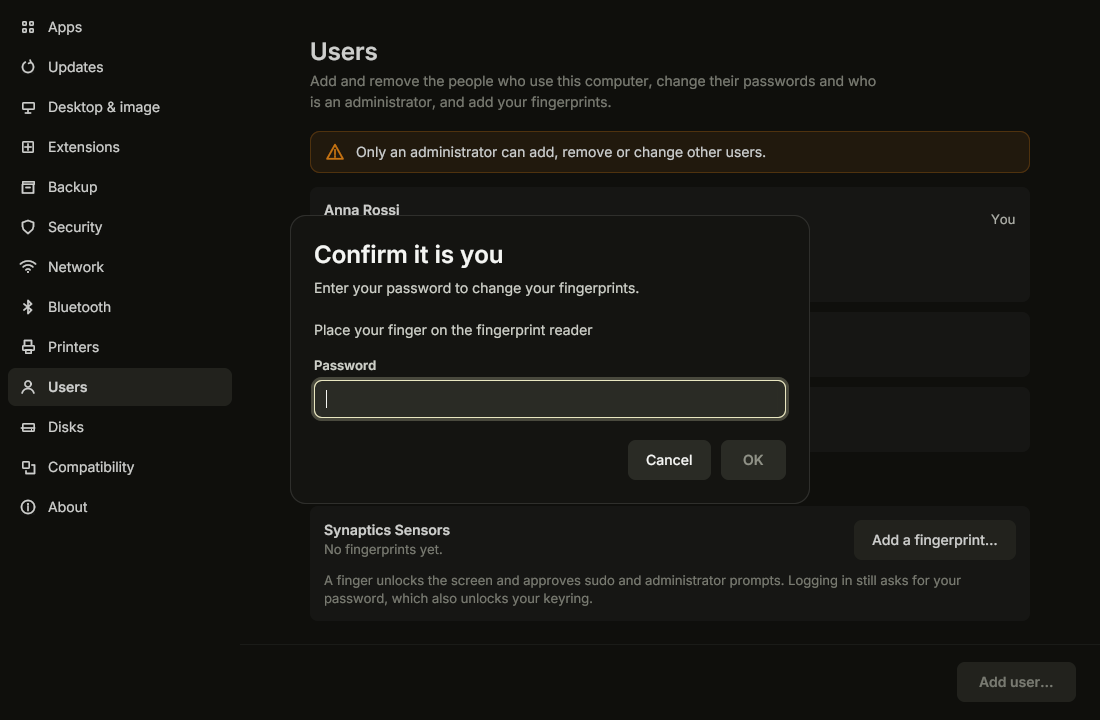
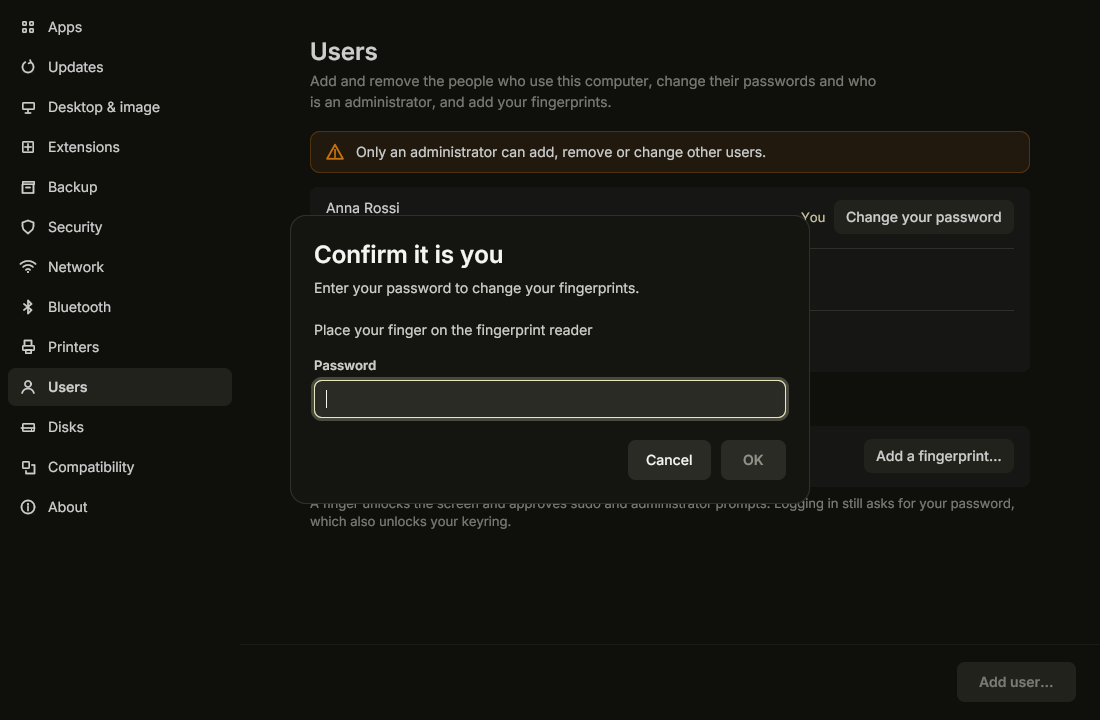
feat(system): settings rows on the Printers and Users pages
The printers, the printers found, the users and the fingerprints are
grouped rows with their buttons at the right. Remove is in the row's
"⋯" menu, and "Search again" moves beside its section's heading.

diff --git a/cmd/isotope-system/page_printers.go b/cmd/isotope-system/page_printers.go
@@ -413,43 +413,36 @@ func (p *printersPage) Body(gtx layout.Context) layout.Dimensions {
 		case s.loadErr != "":
 			c.add(u.errorBox(capitalize(s.loadErr) + "."))
 		case !s.loaded:
-			c.add(u.spinnerLine(i18n.T("Reading the printers…")))
+			c.add(u.group(u.spinnerLine(i18n.T("Reading the printers…"))))
 		case len(s.printers) == 0:
-			c.add(u.panel(u.dim(i18n.T("No printer yet. Add one of the printers found below."))))
+			c.add(u.group(u.note(i18n.T("No printer yet. Add one of the printers found below."))))
 		default:
-			c.add(u.panel(func(gtx layout.Context) layout.Dimensions {
-				var rows col
-				for i, r := range printerRows(s.printers, p.canChange()) {
-					if i > 0 {
-						rows.gap(12)
-					}
-					rows.add(p.printerRow(r, busy))
-				}
-				return rows.layout(gtx)
-			}))
+			var rows []layout.Widget
+			for _, r := range printerRows(s.printers, p.canChange()) {
+				rows = append(rows, p.printerRow(r, busy))
+			}
+			c.add(u.group(rows...))
 		}
-		c.gap(24)
-		c.add(u.caps(i18n.T("Found on the network and USB")))
+		c.gap(28)
+		c.add(u.section(i18n.T("Found on the network and USB"),
+			guikit.Action{Click: &p.search, Kind: guikit.ButtonSecondary, Label: i18n.T("Search again"), Disabled: s.searching || busy}))
 		c.gap(10)
-		c.add(u.panel(func(gtx layout.Context) layout.Dimensions {
-			var rows col
-			found := foundRows(s.found, s.printers, p.canChange())
-			switch {
-			case s.searching:
-				rows.add(u.spinnerLine(i18n.T("Searching for printers…")))
-			case s.findErr != "":
-				rows.add(u.errorBox(capitalize(s.findErr) + "."))
-			case s.searched && len(found) == 0:
-				rows.add(u.dim(i18n.T("No printer found. Turn the printer on and connect it to this network, or plug it in with USB, then search again.")))
-			}
-			for _, r := range found {
-				rows.gap(12)
-				rows.add(p.foundRow(r, busy))
-			}
-			rows.gap(12)
-			rows.add(u.buttons(guikit.Action{Click: &p.search, Kind: guikit.ButtonSecondary, Label: i18n.T("Search again"), Disabled: s.searching || busy}))
-			return rows.layout(gtx)
-		}))
+		var rows []layout.Widget
+		found := foundRows(s.found, s.printers, p.canChange())
+		switch {
+		case s.searching:
+			rows = append(rows, u.spinnerLine(i18n.T("Searching for printers…")))
+		case s.findErr != "":
+			rows = append(rows, u.errorBox(capitalize(s.findErr)+"."))
+		case s.searched && len(found) == 0:
+			rows = append(rows, u.note(i18n.T("No printer found. Turn the printer on and connect it to this network, or plug it in with USB, then search again.")))
+		}
+		for _, r := range found {
+			rows = append(rows, p.foundRow(r, busy))
+		}
+		if len(rows) > 0 {
+			c.add(u.group(rows...))
+		}
 		return c.layout(gtx)
 	})
 }
@@ -465,37 +458,31 @@ func (p *printersPage) printerRow(r printerRow, busy bool) layout.Widget {
 		as = append(as, guikit.Action{Click: &k.def, Kind: guikit.ButtonSecondary, Label: i18n.T("Make default"), Disabled: busy})
 	}
 	if r.CanRemove {
-		as = append(as, guikit.Action{Click: &k.rm, Kind: guikit.ButtonGhost, Label: i18n.T("Remove…"), Disabled: busy})
+		as = append(as, guikit.Action{Click: &k.rm, Kind: guikit.ButtonDanger, Label: i18n.T("Remove…"), Disabled: busy})
 	}
-	return func(gtx layout.Context) layout.Dimensions {
-		var c col
-		c.add(u.row(r.Title, r.Sub, func(gtx layout.Context) layout.Dimensions {
-			if r.Badge == "" {
-				return layout.Dimensions{}
-			}
+	var badge layout.Widget
+	if r.Badge != "" {
+		badge = func(gtx layout.Context) layout.Dimensions {
 			return u.Label(gtx, guikit.StSmall, u.Colors().Accent, r.Badge)
-		}))
-		if len(as) > 0 {
-			c.gap(8)
-			c.add(func(gtx layout.Context) layout.Dimensions { return wrapButtons(gtx, u, as) })
 		}
-		return c.layout(gtx)
 	}
+	return u.actionRow("printer:"+r.P.Name, r.Title, r.Sub, badge, as...)
 }
 
 func (p *printersPage) foundRow(r foundRow, busy bool) layout.Widget {
 	u := p.u
-	var right layout.Widget
+	var status layout.Widget
+	var as []guikit.Action
 	switch {
 	case r.Status != "":
-		status := r.Status
-		right = func(gtx layout.Context) layout.Dimensions {
-			return u.Label(gtx, guikit.StSmall, u.Colors().Dim, status)
+		st := r.Status
+		status = func(gtx layout.Context) layout.Dimensions {
+			return u.Label(gtx, guikit.StSmall, u.Colors().Dim, st)
 		}
 	case r.CanAdd:
-		right = u.buttons(guikit.Action{Click: p.addClick(r.F.URI), Kind: guikit.ButtonPrimary, Label: i18n.T("Add"), Disabled: busy})
+		as = append(as, guikit.Action{Click: p.addClick(r.F.URI), Kind: guikit.ButtonPrimary, Label: i18n.T("Add"), Disabled: busy})
 	}
-	return u.row(r.Title, r.Sub, right)
+	return u.actionRow("found:"+r.F.URI, r.Title, r.Sub, status, as...)
 }
 
 // capitalize starts an error's sentence with a capital.

diff --git a/cmd/isotope-system/ui.go b/cmd/isotope-system/ui.go
@@ -94,6 +94,8 @@ type UI struct {
 	pageAt time.Time
 	pages  map[Page]pageView
 	scale  float32
+	// menus are the rows' "⋯" menus, by row key (actionRow).
+	menus map[string]*guikit.Overflow
 	// bar is the header bar the window draws on COSMIC; nil elsewhere,
 	// where the window manager draws the title bar.
 	bar *guikit.HeaderBar
@@ -171,6 +173,7 @@ func newUI(sys System, sh *text.Shaper, h Hooks, first Page) *UI {
 		hooks: h,
 		now:   time.Now,
 		pages: map[Page]pageView{},
+		menus: map[string]*guikit.Overflow{},
 		scale: 1,
 		pal:   guikit.IsotopePalette(true),
 	}
@@ -648,5 +651,47 @@ func (u *UI) spinnerLine(txt string) layout.Widget {
 				return u.Label(gtx, guikit.StBody, u.Colors().Text2, txt)
 			}),
 		)
+	}
+}
+
+// group is a section's rows in one rounded container, split by lines.
+func (u *UI) group(rows ...layout.Widget) layout.Widget {
+	return func(gtx layout.Context) layout.Dimensions { return u.Group(gtx, rows...) }
+}
+
+// actionRow is a settings row: title and sub at the left, extra (may be
+// nil) and the actions at the right, the ones that do not fit in a "⋯"
+// menu. key names the row for its menu: unique on the page and stable
+// while the row is shown (a printer's name, a device's path).
+func (u *UI) actionRow(key, title, sub string, extra layout.Widget, as ...guikit.Action) layout.Widget {
+	o := u.menus[key]
+	if o == nil {
+		o = new(guikit.Overflow)
+		u.menus[key] = o
+	}
+	return func(gtx layout.Context) layout.Dimensions {
+		return u.ActionRow(gtx, title, sub, extra, as, o)
+	}
+}
+
+// note is a row of a group that is a sentence in the dim colour: the
+// group's empty state.
+func (u *UI) note(txt string) layout.Widget { return u.dim(txt) }
+
+// section is a section's heading with its actions at the right of it
+// ("Search again").
+func (u *UI) section(title string, as ...guikit.Action) layout.Widget {
+	if len(as) == 0 {
+		return u.caps(title)
+	}
+	return func(gtx layout.Context) layout.Dimensions {
+		gtx.Constraints.Min.X = gtx.Constraints.Max.X
+		kids := []layout.FlexChild{layout.Flexed(1, u.caps(title))}
+		for _, a := range as {
+			kids = append(kids, layout.Rigid(layout.Spacer{Width: 8}.Layout), layout.Rigid(func(gtx layout.Context) layout.Dimensions {
+				return u.RowButton(gtx, a.Click, a.Kind, a.Label, !a.Disabled)
+			}))
+		}
+		return layout.Flex{Alignment: layout.Middle}.Layout(gtx, kids...)
 	}
 }

diff --git a/cmd/isotope-system/fprint_section.go b/cmd/isotope-system/fprint_section.go
@@ -381,34 +381,26 @@ func (s *fingerSection) body() layout.Widget {
 			if !u.sys.Admin {
 				sub = i18n.T(fpNoExtUser)
 			}
-			c.add(u.panel(func(gtx layout.Context) layout.Dimensions {
-				var p col
-				p.add(u.row(i18n.T("Fingerprint sign-in is not installed"), sub, nil))
-				p.gap(10)
-				p.add(u.buttons(guikit.Action{Click: &s.install, Kind: guikit.ButtonSecondary, Label: i18n.T("Install the fingerprint extension")}))
-				return p.layout(gtx)
-			}))
+			c.add(u.group(u.actionRow("fp:install", i18n.T("Fingerprint sign-in is not installed"), sub, nil,
+				guikit.Action{Click: &s.install, Kind: guikit.ButtonSecondary, Label: i18n.T("Install the fingerprint extension")})))
 		case st.NeedsRestart:
 			c.add(u.notice(i18n.T(fpRestart)))
 		case st.Reader == "":
-			c.add(u.panel(u.row(i18n.T("No fingerprint reader"), i18n.T(fpNoReader), nil)))
+			c.add(u.group(u.actionRow("fp:none", i18n.T("No fingerprint reader"), i18n.T(fpNoReader), nil)))
 		default:
-			c.add(u.panel(func(gtx layout.Context) layout.Dimensions {
-				var p col
-				sub := i18n.T("No fingerprints yet.")
-				if n := len(st.Enrolled); n > 0 {
-					sub = i18n.Nf("%d fingerprint", "%d fingerprints", n, n)
-				}
-				p.add(u.row(st.Reader, sub, u.buttons(guikit.Action{Click: &s.add, Kind: guikit.ButtonSecondary, Label: i18n.T("Add a fingerprint…")})))
-				for _, n := range st.Enrolled {
-					n := n
-					p.gap(8)
-					p.add(u.row(fingerLabel(n), "", u.buttons(guikit.Action{Click: s.clickFor(s.remove, n), Kind: guikit.ButtonGhost, Label: i18n.T("Remove…")})))
-				}
-				p.gap(12)
-				p.add(u.dim(i18n.T(fpNotNeeded)))
-				return p.layout(gtx)
-			}))
+			sub := i18n.T("No fingerprints yet.")
+			if n := len(st.Enrolled); n > 0 {
+				sub = i18n.Nf("%d fingerprint", "%d fingerprints", n, n)
+			}
+			rows := []layout.Widget{u.actionRow("fp:reader", st.Reader, sub, nil,
+				guikit.Action{Click: &s.add, Kind: guikit.ButtonSecondary, Label: i18n.T("Add a fingerprint…")})}
+			for _, n := range st.Enrolled {
+				rows = append(rows, u.actionRow("fp:"+n, fingerLabel(n), "", nil,
+					guikit.Action{Click: s.clickFor(s.remove, n), Kind: guikit.ButtonDanger, Label: i18n.T("Remove…")}))
+			}
+			c.add(u.group(rows...))
+			c.gap(8)
+			c.add(u.dim(i18n.T(fpNotNeeded)))
 		}
 		return c.layout(gtx)
 	}

diff --git a/cmd/isotope-system/page_users.go b/cmd/isotope-system/page_users.go
@@ -378,7 +378,7 @@ func (p *usersPage) actionsOf(x User) []guikit.Action {
 		}
 		as = append(as,
 			guikit.Action{Click: &k.admin, Kind: guikit.ButtonSecondary, Label: label},
-			guikit.Action{Click: &k.rm, Kind: guikit.ButtonGhost, Label: i18n.T("Remove…"), Disabled: own})
+			guikit.Action{Click: &k.rm, Kind: guikit.ButtonDanger, Label: i18n.T("Remove…"), Disabled: own})
 	}
 	return as
 }
@@ -457,12 +457,11 @@ func (p *usersPage) Body(gtx layout.Context) layout.Dimensions {
 		case !loaded:
 			c.add(u.spinnerLine(i18n.T("Reading the users…")))
 		default:
-			for i, x := range users {
-				if i > 0 {
-					c.gap(10)
-				}
-				c.add(p.userRow(x))
+			var rows []layout.Widget
+			for _, x := range users {
+				rows = append(rows, p.userRow(x))
 			}
+			c.add(u.group(rows...))
 		}
 		// The user's own fingerprints, which need fprintd, not the daemon.
 		c.gap(26)
@@ -474,22 +473,13 @@ func (p *usersPage) Body(gtx layout.Context) layout.Dimensions {
 func (p *usersPage) userRow(x User) layout.Widget {
 	u := p.u
 	title, sub := p.rowText(x)
-	as := p.actionsOf(x)
-	own := p.self(x.Name)
-	return u.panel(func(gtx layout.Context) layout.Dimensions {
-		var c col
-		c.add(u.row(title, sub, func(gtx layout.Context) layout.Dimensions {
-			if !own {
-				return layout.Dimensions{}
-			}
-			return u.Label(gtx, guikit.StSmall, u.Colors().Text2, i18n.T("You"))
-		}))
-		if len(as) > 0 {
-			c.gap(10)
-			c.add(func(gtx layout.Context) layout.Dimensions { return wrapButtons(gtx, u, as) })
+	var you layout.Widget
+	if p.self(x.Name) {
+		you = func(gtx layout.Context) layout.Dimensions {
+			return u.Label(gtx, guikit.StSmall, u.Colors().Accent, i18n.T("You"))
 		}
-		return c.layout(gtx)
-	})
+	}
+	return u.actionRow("user:"+x.Name, title, sub, you, p.actionsOf(x)...)
 }
 
 // wrapButtons lays the buttons in a row, or one per line when they do not
